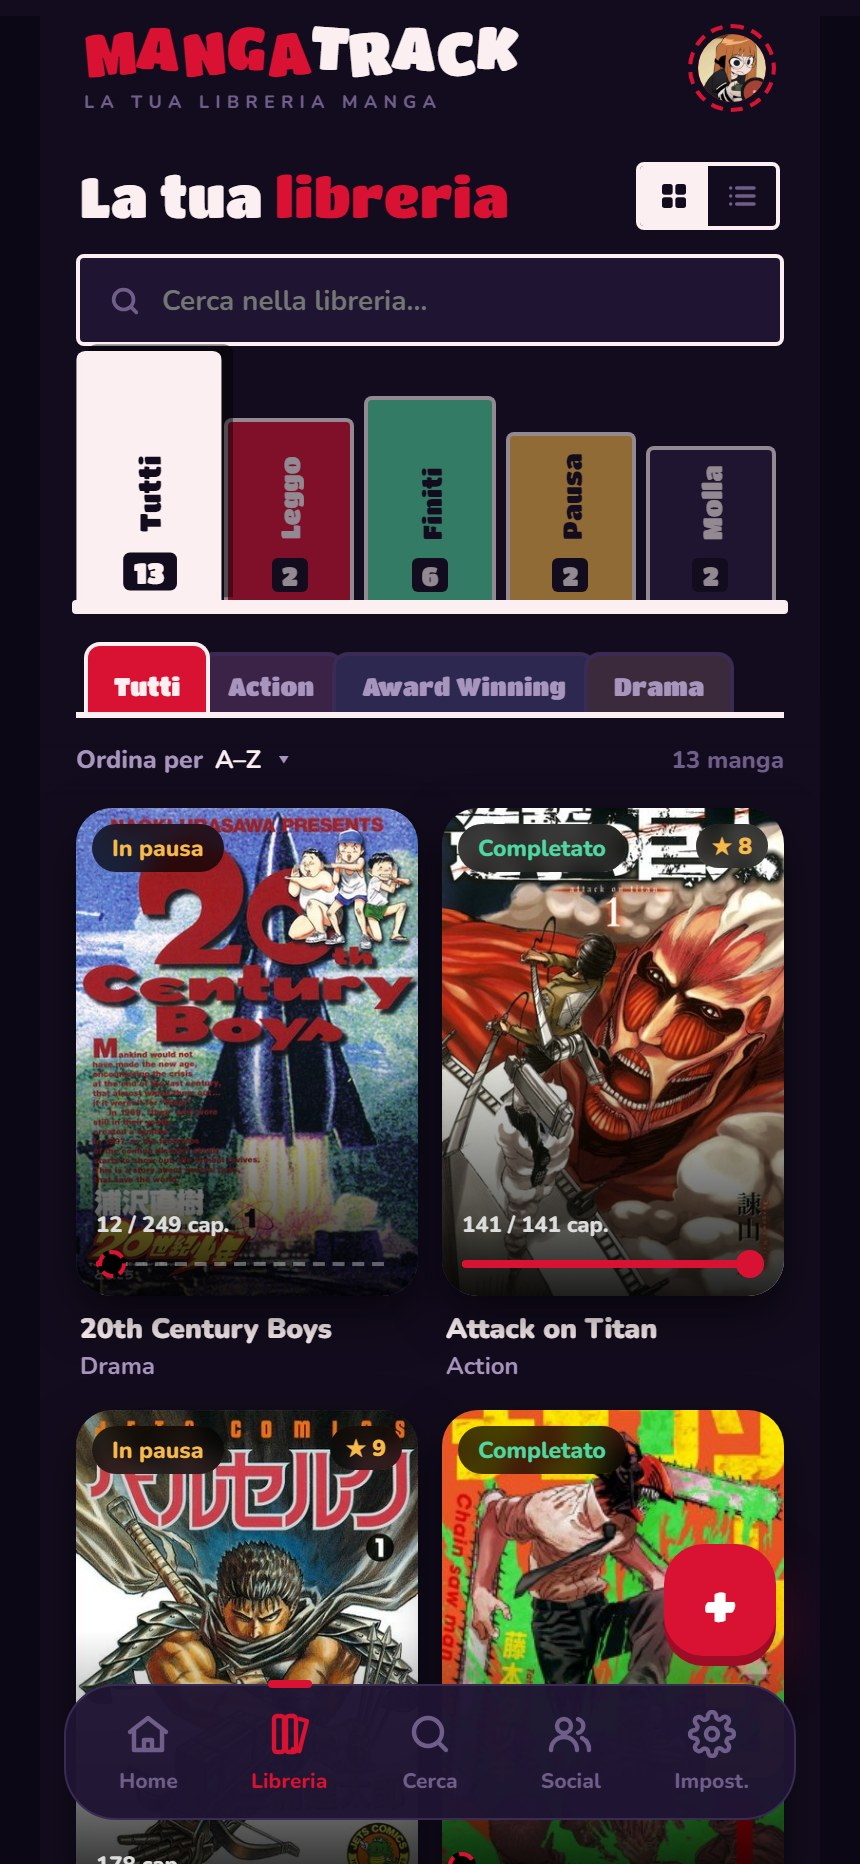
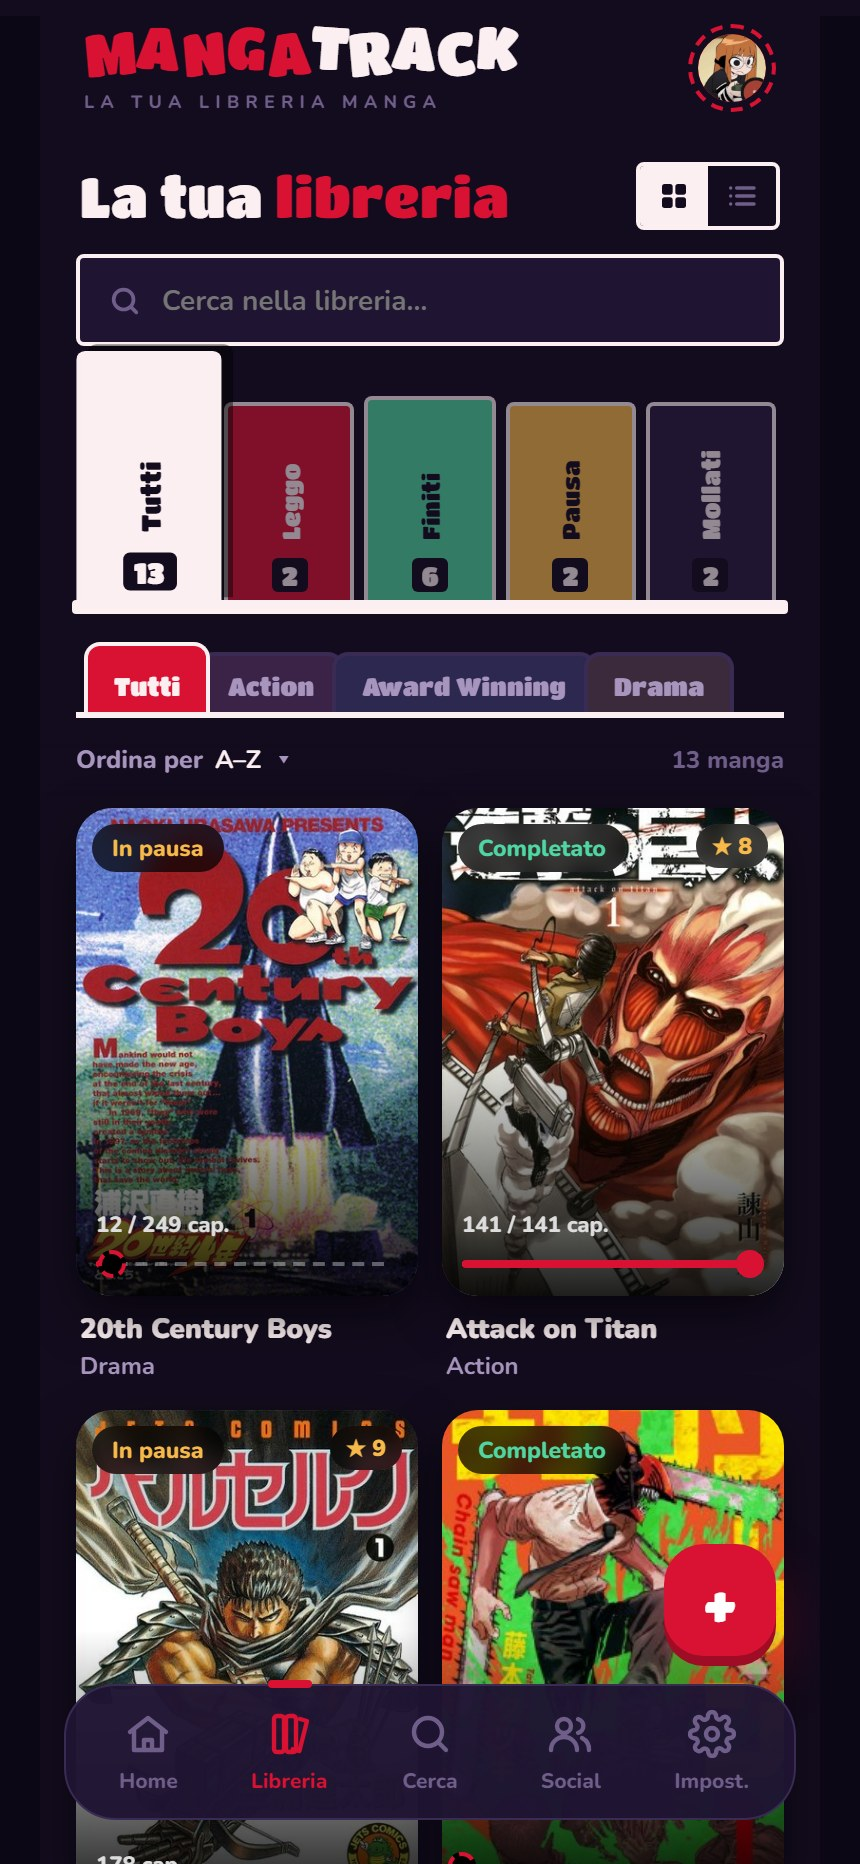
Remove intro replay and fit shelf labels

diff --git a/src/components/views/AuthView.jsx b/src/components/views/AuthView.jsx
@@ -27,7 +27,6 @@ const T = {
     ],
     pickUser: 'Scegli il tuo username per iniziare.',
     cont: 'Continua',
-    replay: "↻ Rivedi l'intro",
     errFill: 'Compila tutti i campi',
     errUser: 'Scegli un username',
     errEmail: 'Inserisci la tua email per recuperare la password',
@@ -74,7 +73,6 @@ const T = {
     ],
     pickUser: 'Choose your username to get started.',
     cont: 'Continue',
-    replay: '↻ Replay intro',
     errFill: 'Fill in all the fields',
     errUser: 'Choose a username',
     errEmail: 'Enter your email to reset your password',
@@ -156,7 +154,6 @@ export default function AuthView() {
   const [error, setError] = useState('');
   const [success, setSuccess] = useState('');
   const [legal, setLegal] = useState(null);
-  const [introNonce, setIntroNonce] = useState(0);
   const [iconNonce, setIconNonce] = useState(0);
   const [qNonce, setQNonce] = useState(0);
   const [flipNonce, setFlipNonce] = useState(0);
@@ -204,7 +201,7 @@ export default function AuthView() {
       clearTimeout(timer);
       frames.forEach(cancelAnimationFrame);
     };
-  }, [screen, introNonce]);
+  }, [screen]);
 
   function clearMessages() {
     setError('');
@@ -217,12 +214,6 @@ export default function AuthView() {
     setReg(registerMode);
     setQNonce(n => n + 1);
     setIconNonce(n => n + 1);
-  }
-
-  function replayIntro() {
-    clearMessages();
-    setScreen('intro');
-    setIntroNonce(n => n + 1);
   }
 
   function setMode(registerMode) {
@@ -314,7 +305,7 @@ export default function AuthView() {
           <div className="login-phone">
             {/* ---------------- Intro / onboarding ---------------- */}
             <div
-              key={`intro-${introNonce}`}
+              key="intro"
               className={`scr phx o4 scrn${screen === 'intro' ? ' on' : ''} go4`}
             >
               <div className="hd">
@@ -556,12 +547,6 @@ export default function AuthView() {
               </span>
             </div>
           </div>
-
-          {!needsUsername && (
-            <button type="button" className="replay" onClick={replayIntro}>
-              {t.replay}
-            </button>
-          )}
         </div>
       </div>
 

diff --git a/src/styles/login-scoped.css b/src/styles/login-scoped.css
@@ -44,7 +44,6 @@
 .login-root .dots i.on{width:22px;border-radius:4px;background:var(--red)}
 .login-root .cta{height:50px;border:2.5px solid var(--ink);border-radius:26px;background:var(--red);color:var(--ink);font-family:var(--display);font-size:17px;cursor:pointer;box-shadow:0 4px 0 var(--red-d);width:100%}
 .login-root .ghost4{background:none;border:0;color:var(--muted);font-weight:900;font-size:13px;cursor:pointer;margin-top:10px;width:100%}
-.login-root .replay{display:block;margin:10px auto 0;background:none;border:2px solid var(--line);color:var(--muted);font-weight:900;padding:6px 14px;border-radius:20px;cursor:pointer;font-size:12px}
 .login-root .cov{border:2.5px solid var(--ink);border-radius:3px;object-fit:cover;background:#000}
 .login-root .ht{background-image:var(--ht)}
 .login-root .o1 .stage{flex:1;position:relative;margin:56px 18px 0}

diff --git a/src/styles/hark-v45.css b/src/styles/hark-v45.css
@@ -258,6 +258,10 @@
 .shelf .o{gap:9px}
 .shelf .o.on{transform:scale(1.12);z-index:2;box-shadow:5px -3px 0 rgba(0,0,0,.45)}
 .shelf .o:not(.on){opacity:.55}
+/* I dorsi sono verticali: senza questa altezza minima le etichette lunghe
+   ("Mollati", "Reading", "Dropped") uscivano tagliate dal riquadro. */
+.shelf .o{min-height:101px}
+.shelf .o .w{font-size:12px}
 
 /* ===== v54 E4 empty library ===== */
 .e4w{grid-column:1/-1;text-align:center;padding:4px 0 10px}
